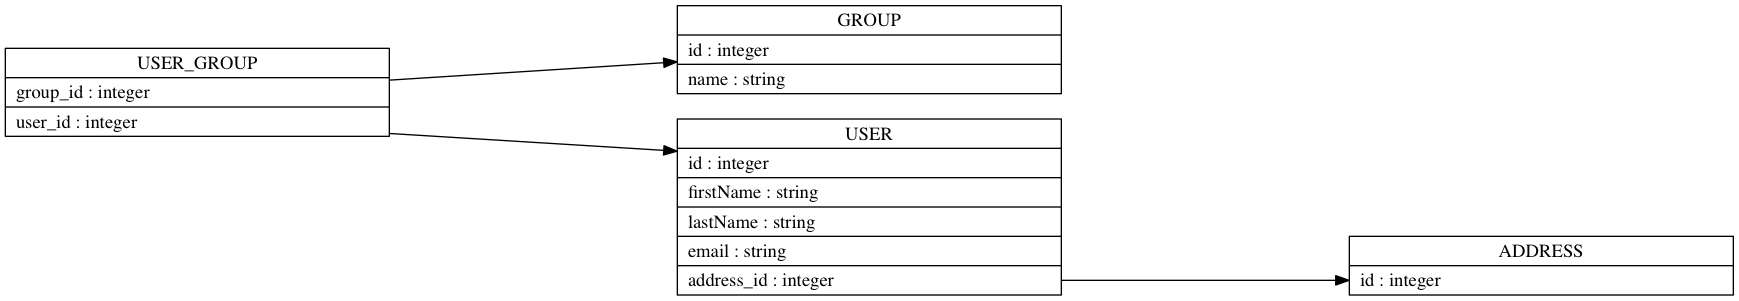
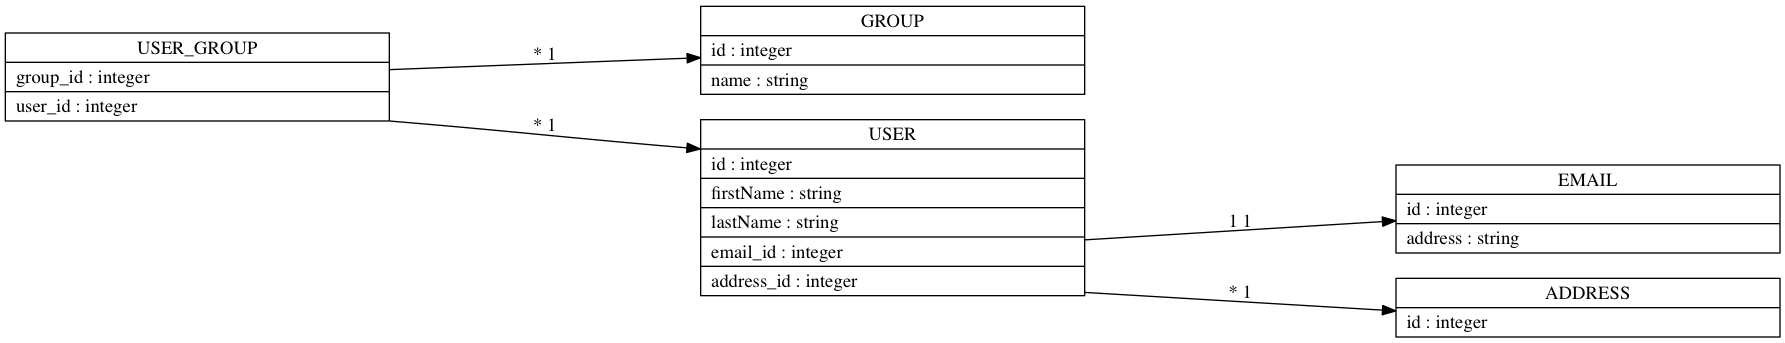
add cardinality

diff --git a/test/Command/DoctrinevizCommandTest.php b/test/Command/DoctrinevizCommandTest.php
@@ -56,6 +56,11 @@ class DoctrinevizCommandTest extends WebTestCase
             '    width="4"'.PHP_EOL.
             '    label="ADDRESS|<id> id : integer\\l"'.PHP_EOL.
             '  ]'.PHP_EOL.
+            '  email ['.PHP_EOL.
+            '    shape="record"'.PHP_EOL.
+            '    width="4"'.PHP_EOL.
+            '    label="EMAIL|<id> id : integer\\l|<address> address : string\\l"'.PHP_EOL.
+            '  ]'.PHP_EOL.
             '  group ['.PHP_EOL.
             '    shape="record"'.PHP_EOL.
             '    width="4"'.PHP_EOL.
@@ -64,16 +69,25 @@ class DoctrinevizCommandTest extends WebTestCase
             '  user ['.PHP_EOL.
             '    shape="record"'.PHP_EOL.
             '    width="4"'.PHP_EOL.
-            '    label="USER|<id> id : integer\\l|<firstName> firstName : string\\l|<lastName> lastName : string\\l|<email> email : string\\l|<address_id> address_id : integer\\l"'.PHP_EOL.
+            '    label="USER|<id> id : integer\\l|<firstName> firstName : string\\l|<lastName> lastName : string\\l|<email_id> email_id : integer\\l|<address_id> address_id : integer\\l"'.PHP_EOL.
             '  ]'.PHP_EOL.
             '  user_group ['.PHP_EOL.
             '    shape="record"'.PHP_EOL.
             '    width="4"'.PHP_EOL.
             '    label="USER_GROUP|<group_id> group_id : integer\\l|<user_id> user_id : integer\\l"'.PHP_EOL.
             '  ]'.PHP_EOL.
-            '  user_group:group_id : integer -> group:id : integer;'.PHP_EOL.
-            '  user_group:user_id : integer -> user:id : integer;'.PHP_EOL.
-            '  user:address_id : integer -> address:id : integer;'.PHP_EOL.
+            '  user_group:group_id : integer -> group:id : integer ['.PHP_EOL.
+            '    label="* 1"'.PHP_EOL.
+            '  ];'.PHP_EOL.
+            '  user_group:user_id : integer -> user:id : integer ['.PHP_EOL.
+            '    label="* 1"'.PHP_EOL.
+            '  ];'.PHP_EOL.
+            '  user:email_id : integer -> email:id : integer ['.PHP_EOL.
+            '    label="1 1"'.PHP_EOL.
+            '  ];'.PHP_EOL.
+            '  user:address_id : integer -> address:id : integer ['.PHP_EOL.
+            '    label="* 1"'.PHP_EOL.
+            '  ];'.PHP_EOL.
             '}'.PHP_EOL;
         $client = static::createClient();
         $command = new DoctrinevizCommand();

diff --git a/src/Command/DoctrinevizCommand.php b/src/Command/DoctrinevizCommand.php
@@ -16,6 +16,7 @@
 namespace Janalis\Doctrineviz\Command;
 
 use Doctrine\ORM\EntityManager;
+use Doctrine\ORM\Mapping\ClassMetadataInfo;
 use Janalis\Doctrineviz\Graphviz\Graph;
 use Janalis\Doctrineviz\Graphviz\Graphviz;
 use Janalis\Doctrineviz\Graphviz\Record;
@@ -103,7 +104,7 @@ class DoctrinevizCommand extends ContainerAwareCommand
                                     $tables[$sourceEntity]->addRecord($to);
                                 }
                             }
-                            $record->addEdgeTo($to);
+                            $record->addEdgeTo($to, '* 1');
                         }
                     }
                     if (array_key_exists('inverseJoinColumns', $joinTable)) {
@@ -120,7 +121,7 @@ class DoctrinevizCommand extends ContainerAwareCommand
                                     $tables[$targetEntity]->addRecord($to);
                                 }
                             }
-                            $record->addEdgeTo($to);
+                            $record->addEdgeTo($to, '* 1');
                         }
                     }
                     $tables[$table->getId()] = $table;
@@ -144,7 +145,7 @@ class DoctrinevizCommand extends ContainerAwareCommand
                         ]));
                         $tables[$entity]->addRecord($from);
                     }
-                    $from->addEdgeTo($to);
+                    $from->addEdgeTo($to, $this->getCardinality($associationMapping));
                 }
             }
         }
@@ -162,6 +163,24 @@ class DoctrinevizCommand extends ContainerAwareCommand
             return 0;
         } else {
             return (int) !file_put_contents($path, $graphviz->createImageData($graph));
+        }
+    }
+
+    protected function getCardinality(array $fieldMapping)
+    {
+        if (!array_key_exists('type', $fieldMapping)) {
+            return null;
+        }
+
+        switch ($fieldMapping['type']) {
+            case ClassMetadataInfo::ONE_TO_ONE:
+                return '1 1';
+            case ClassMetadataInfo::ONE_TO_MANY:
+                return '1 *';
+            case ClassMetadataInfo::MANY_TO_ONE:
+                return '* 1';
+            case ClassMetadataInfo::MANY_TO_MANY:
+                return '* *';
         }
     }
 

diff --git a/src/Graphviz/Edgeable.php b/src/Graphviz/Edgeable.php
@@ -44,51 +44,55 @@ trait Edgeable
      * Add edge to.
      *
      * @param Vertex|Record $element
+     * @param null|string   $label
      */
-    public function addEdgeTo($element)
+    public function addEdgeTo($element, $label = null)
     {
         if (!$this->graph) {
             throw new \RuntimeException('Graph is not defined');
         }
-        $this->graph->addEdge(new Edge($this, $element));
+        $this->graph->addEdge(new Edge($this, $element, $label));
     }
 
     /**
      * Remove edge to.
      *
      * @param Vertex|Record $element
+     * @param null|string   $label
      */
-    public function removeEdgeTo($element)
+    public function removeEdgeTo($element, $label = null)
     {
         if (!$this->graph) {
             throw new \RuntimeException('Graph is not defined');
         }
-        $this->graph->removeEdge(new Edge($this, $element));
+        $this->graph->removeEdge(new Edge($this, $element, $label));
     }
 
     /**
      * Add edge from.
      *
      * @param Vertex|Record $element
+     * @param null|string   $label
      */
-    public function addEdgeFrom($element)
+    public function addEdgeFrom($element, $label = null)
     {
         if (!$this->graph) {
             throw new \RuntimeException('Graph is not defined');
         }
-        $this->graph->addEdge(new Edge($element, $this));
+        $this->graph->addEdge(new Edge($element, $this, $label));
     }
 
     /**
      * Remove edge from.
      *
      * @param Vertex|Record $element
+     * @param null|string   $label
      */
-    public function removeEdgeFrom($element)
+    public function removeEdgeFrom($element, $label = null)
     {
         if (!$this->graph) {
             throw new \RuntimeException('Graph is not defined');
         }
-        $this->graph->removeEdge(new Edge($element, $this));
+        $this->graph->removeEdge(new Edge($element, $this, $label));
     }
 }

diff --git a/src/Graphviz/Edge.php b/src/Graphviz/Edge.php
@@ -15,7 +15,7 @@
 
 namespace Janalis\Doctrineviz\Graphviz;
 
-class Edge
+class Edge extends Node
 {
     /** @var Vertex|Record */
     protected $from;
@@ -23,12 +23,31 @@ class Edge
     /** @var Vertex|Record */
     protected $to;
 
+    /** @var string */
+    protected $label;
+
     /*
      * @return string
      */
     public function __toString()
     {
-        return "{$this->getId($this->from)} -> {$this->getId($this->to)};";
+        return "{$this->getId($this->from)} -> {$this->getId($this->to)}".(!count($this->getAttributes()) ? '' : ' ['.PHP_EOL.
+            implode(PHP_EOL, $this->indentAll($this->getAttributes())).
+            PHP_EOL.']').';';
+    }
+
+    /**
+     * Get attributes.
+     *
+     * @return Attribute[]
+     */
+    public function getAttributes()
+    {
+        if (null !== $this->label) {
+            $this->createAttribute('label', $this->label);
+        }
+
+        return parent::getAttributes();
     }
 
     /**
@@ -48,11 +67,13 @@ class Edge
      *
      * @param Vertex|Record $from
      * @param Vertex|Record $to
+     * @param null|string   $label
      */
-    public function __construct($from, $to)
+    public function __construct($from, $to, $label = null)
     {
         $this->from = $from;
         $this->to = $to;
+        $this->label = $label;
     }
 
     /**
@@ -93,5 +114,25 @@ class Edge
     public function setTo($to)
     {
         $this->to = $to;
+    }
+
+    /**
+     * Get label.
+     *
+     * @return string
+     */
+    public function getLabel()
+    {
+        return $this->label;
+    }
+
+    /**
+     * Set label.
+     *
+     * @param string $label
+     */
+    public function setLabel($label)
+    {
+        $this->label = $label;
     }
 }

diff --git a/test/Entity/Email.php b/test/Entity/Email.php
@@ -19,9 +19,9 @@ use Doctrine\ORM\Mapping as ORM;
 
 /**
  * @ORM\Entity()
- * @ORM\Table(name="user")
+ * @ORM\Table(name="email")
  */
-class User
+class Email
 {
     /**
      * @ORM\Id
@@ -31,27 +31,7 @@ class User
     protected $id;
 
     /**
-     * @ORM\Column(type="string", nullable=false)
-     */
-    protected $firstName;
-
-    /**
-     * @ORM\Column(type="string", nullable=false)
-     */
-    protected $lastName;
-
-    /**
-     * @ORM\OneToOne(targetEntity="Email")
-     */
-    protected $email;
-
-    /**
-     * @ORM\ManyToOne(targetEntity="Address", inversedBy="users")
-     */
+     * @ORM\Column(type="string", nullable=true)
+     **/
     protected $address;
-
-    /**
-     * @ORM\ManyToMany(targetEntity="Group", mappedBy="users")
-     */
-    protected $groups;
 }

diff --git a/src/Graphviz/Vertex.php b/src/Graphviz/Vertex.php
@@ -35,6 +35,11 @@ class Vertex extends Node
             PHP_EOL.']';
     }
 
+    /**
+     * Get attributes.
+     *
+     * @return Attribute[]
+     */
     public function getAttributes()
     {
         $this->createAttribute('label', count($this->records) ? mb_convert_case($this->id, MB_CASE_UPPER).'|'.implode('|', $this->records) : $this->id);
